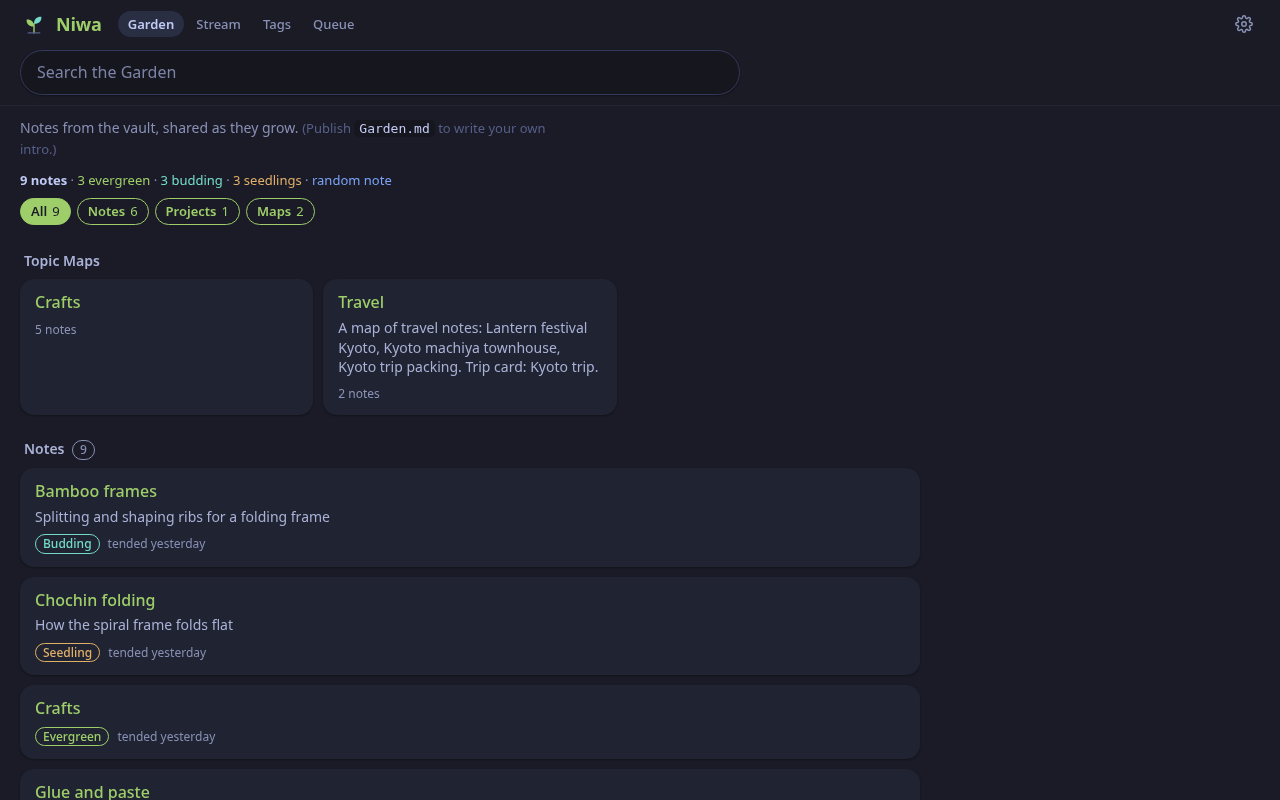
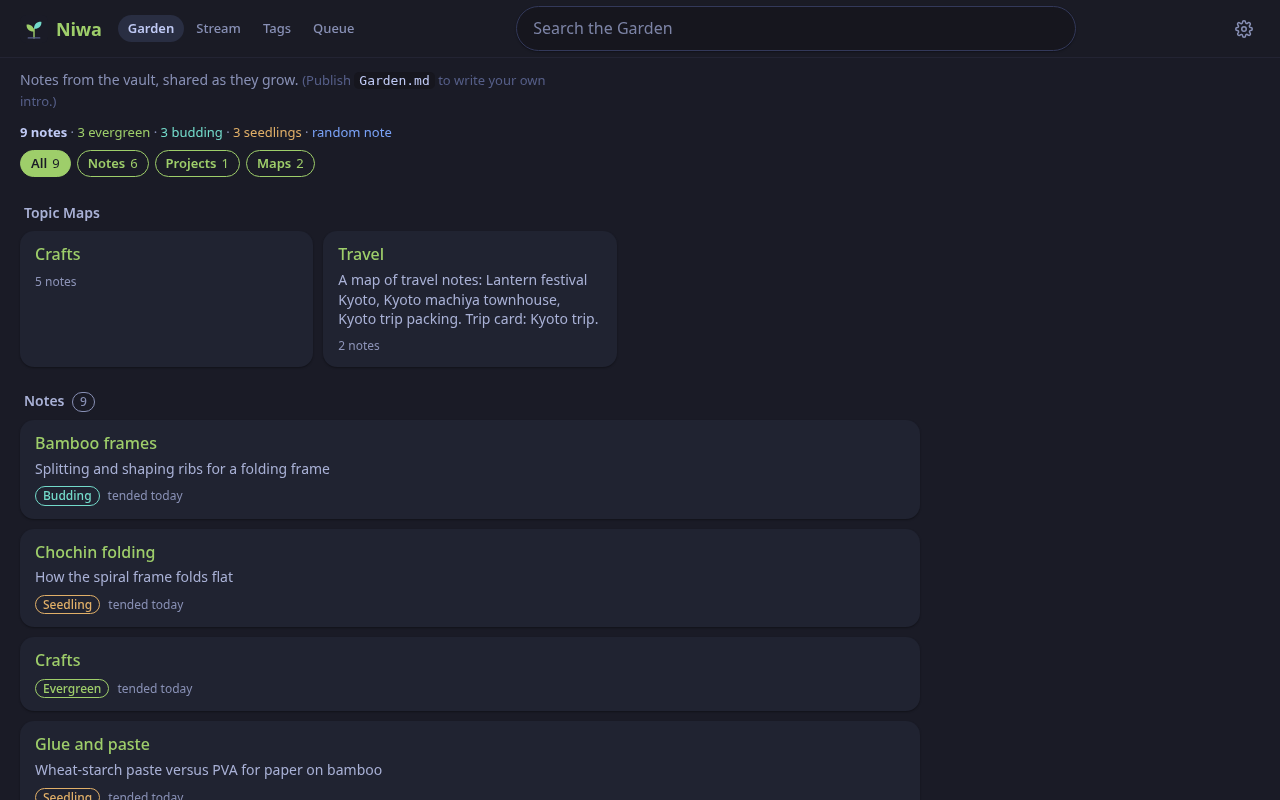
niwa 0.15.0: vaultkit 0.30.1: the search pill sits in the top bar from 1100px; a long note title is cut with an ellipsis

diff --git a/app/vaultkit/ui/machiya.css b/app/vaultkit/ui/machiya.css
@@ -523,6 +523,24 @@ header.top {
 /* The top bar never shows a search field (v0.16.4); since v0.17 the pill is the header's second row (.searchrow). */
 .topbar form.search { display: none; }
 
+/* One row from 1100px (v0.30, owner 2026-10-10): the search pill sits between the tabs and the tools, centred, as Shiori's field.
+   The top bar's children become the header's own flex items (display: contents), so the .searchrow, a sibling of the top bar,
+   can take its place in the same row without any change of markup; narrower, and on phones, it stays the second row. An
+   app's own row (`below=`) keeps the full width under it. */
+@media (min-width: 1100px) {
+  header.top { display: flex; flex-wrap: wrap; align-items: center; column-gap: var(--sp-4); }
+  header.top > .topbar { display: contents; }
+  header.top > .brand, header.top .topbar > .brand { min-height: 48px; }
+  .topbar > .nav { flex: none; }
+  /* a long subtitle (a note's title) is cut with an ellipsis instead of wrapping the row: sized so seven tabs, the field at its
+     160px minimum and the tools still fit at 1100px */
+  .topbar > .subtitle { flex: 0 1 auto; max-width: clamp(96px, 14vw, 320px); }
+  .topbar > .tools { order: 2; margin-left: auto; }          /* without a search pill the tools stay at the right */
+  header.top:has(> .searchrow) .topbar > .tools { margin-left: 0; }   /* with one, the pill's own auto margins centre it */
+  header.top > .searchrow { order: 1; flex: 1 1 160px; min-width: 160px; max-width: 560px; margin: 0 auto; padding: 6px 0; }
+  header.top > .below { order: 3; flex: 1 0 100%; }
+}
+
 /* ---- tab bar (phones and the installed app) ---------------------------------------------------------------- */
 /* A floating pill like Shiori's (v0.16; more see-through glass in v0.16.1: 70% with a stronger blur): it spans the screen minus a margin, so five tabs never run off the edge; the
    bar and the current tab follow the variant: dark = the bar on --dark, the current tab on --hl; light = the reverse. */

diff --git a/app/vaultkit/ui/machiya.js b/app/vaultkit/ui/machiya.js
@@ -835,3 +835,14 @@ document.addEventListener("click", (event) => {
   img.referrerPolicy = "no-referrer";
   box.replaceWith(img);
 });
+
+/* The pinned header's height as --hdr-h on <html> (v0.30): an app's sticky row under it (Konbini's lane headings) uses it
+   instead of measuring the header itself. Follows the one-row layout, the phone layout and the app's own row. */
+(function () {
+  const h = document.querySelector("header.top");
+  if (!h) return;
+  const set = () => document.documentElement.style.setProperty("--hdr-h", Math.ceil(h.getBoundingClientRect().height) + "px");
+  set();
+  if (window.ResizeObserver) new ResizeObserver(set).observe(h);
+  else window.addEventListener("resize", set);
+})();

diff --git a/app/vaultkit/shell.py b/app/vaultkit/shell.py
@@ -332,9 +332,11 @@ def switcher(room, links, cls="rooms", settings=False, who=""):
             % (cls, GLYPH["rooms"], "".join(rows), "<hr>" if nb else "", "".join(nb), ("<hr>" + home) if home else "", gear))
 
 
-def header(room, nav, current, links, subtitle="", tools="", settings=True, who="", search=""):
+def header(room, nav, current, links, subtitle="", tools="", settings=True, who="", search="", below="", cls=""):
     """nav = [(href, key, label)]; tools = extra HTML before the switcher; who = the signed-in name (v0.13): a person
-    button before the gear, to the Account settings; search = search_bar(...) (v0.17): the pill under the top bar."""
+    button before the gear, to the Account settings; search = search_bar(...) (v0.17): the pill under the top bar, and in it
+    from 1100px (v0.30); below = the app's own HTML for a row inside the header under the search (a stats or alert row);
+    cls = extra classes on the header element (a page's state)."""
     _, name, seal, _ = room_info(room)
     items = "".join(('<b class="here">%s</b>' % e(label)) if key == current else '<a href="%s">%s</a>' % (e(href), e(label))
                     for href, key, label in nav)
@@ -342,10 +344,11 @@ def header(room, nav, current, links, subtitle="", tools="", settings=True, who=
     if who and settings:
         gear = ('<a class="iconbtn who" href="/settings#account" title="Signed in as %s" aria-label="Signed in as %s">%s</a>'
                 % (e(who), e(who), GLYPH["person"])) + gear
-    return ('<header class="top"><div class="topbar"><a class="brand" href="/">%s'
-            '<span class="word">%s</span></a>%s<nav class="nav">%s</nav><div class="tools">%s%s%s</div></div>%s</header>\n'
-            % (mark(room), e(name), ('<span class="subtitle">%s</span>' % e(subtitle)) if subtitle else "", items, tools,
-               switcher(room, links), gear, ('<div class="searchrow">%s</div>' % search) if search else ""))
+    return ('<header class="top%s"><div class="topbar"><a class="brand" href="/">%s'
+            '<span class="word">%s</span></a>%s<nav class="nav">%s</nav><div class="tools">%s%s%s</div></div>%s%s</header>\n'
+            % ((" " + e(cls)) if cls else "", mark(room), e(name), ('<span class="subtitle">%s</span>' % e(subtitle)) if subtitle else "",
+               items, tools, switcher(room, links), gear, ('<div class="searchrow">%s</div>' % search) if search else "",
+               ('<div class="below">%s</div>' % below) if below else ""))
 
 
 def tabbar(tabs, current, room, links, icons=None, who=""):

diff --git a/tests/test_niwa.py b/tests/test_niwa.py
@@ -3008,6 +3008,29 @@ class PublicGardenTest(unittest.TestCase):
         _, _, rss = self.get("/feed.xml")
         self.assertIn("<link>https://garden.example/n/", rss)                    # NIWA_GARDEN_URL, never Host
 
+    def test_the_header_keeps_the_markup_machiya_css_lays_out_as_one_row(self):
+        """From 1100px machiya.css makes .topbar's children the header's own items (display: contents) and seats the
+        .searchrow between the tabs and the tools, and caps .topbar > .subtitle: the owner's header and the public one
+        (empty tools) both need that shape, and the subtitle a note's title."""
+        for path in ("/", "/n/Notes/Public%20lantern", "/search?q=lantern"):
+            for who, body in (("owner", req(path)[1]), ("public", self.get(path)[2])):
+                head = body[body.index('<header class="top">'):body.index("</header>")]
+                self.assertTrue(head.startswith('<header class="top"><div class="topbar"><a class="brand" href="/">'), (who, path))
+                self.assertIn('</nav><div class="tools">', head)
+                self.assertEqual(head.count('<div class="searchrow"><form class="search searchbar"'), 1, (who, path))
+                self.assertIn('</div></div><div class="searchrow">', head)      # tools close, the top bar closes, then the pill
+                if "subtitle" in head:
+                    self.assertLess(head.index('class="subtitle"'), head.index('<nav class="nav">'), (who, path))
+        head = self.get("/")[2]
+        head = head[head.index('<header class="top">'):head.index("</header>")]
+        self.assertIn('<div class="tools"></div>', head)                        # nothing of the owner's tools
+        for gone in ("rooms", "iconbtn", "/settings", "/queue"):
+            self.assertNotIn(gone, head)
+        owner = req("/")[1]
+        self.assertIn('class="iconbtn gear"', owner[owner.index('<header class="top">'):owner.index("</header>")])
+        note = self.get("/n/Notes/Public%20lantern")[2]
+        self.assertIn('<span class="subtitle">Public lantern</span>', note[note.index('<header class="top">'):])
+
     def test_a_live_link_keeps_its_original_with_an_archive_link_beside_it(self):
         want = ('<a href="https://live.example/y">the live page</a> <a class="arch" title="Archived copy from 2026-09-02" '
                 'href="https://web.archive.org/web/2026/https://live.example/y">archive.org</a>')

diff --git a/app/vaultkit/__init__.py b/app/vaultkit/__init__.py
@@ -13,4 +13,4 @@ from .vault import CALLOUT_RE, EMBED_RE, HIDDEN, IMAGE_EXT, MDIMG_RE, Vault     
 from .frontmatter import EditError, edit_front, merge_note, version_of, yaml_scalar   # noqa: F401
 from .gitsync import GitSync                                                          # noqa: F401
 
-__version__ = "0.29.0"
+__version__ = "0.30.1"

diff --git a/app/niwa.py b/app/niwa.py
@@ -52,7 +52,7 @@ from vaultkit import read_secret  # noqa: E402
 from vaultkit import signin  # noqa: E402
 from writer import Writer, WriteError  # noqa: E402
 
-VERSION = "0.14.2"
+VERSION = "0.15.0"
 PORT = int(os.environ.get("NIWA_PORT", "8080"))
 USERS = set(filter(None, (u.strip() for u in os.environ.get("NIWA_USERS", "").split(","))))
 

diff --git a/app/CHANGELOG.md b/app/CHANGELOG.md
@@ -3,6 +3,14 @@
 Niwa follows [SemVer](https://semver.org). Before 1.0, a new feature, a changed default or setting, or a changed API
 field is a minor bump, and a fix or wording change is a patch. Settings are listed in the README.
 
+## 0.15.0
+
+vaultkit 0.30.1 (the one-row header, owner decision 2026-10-10).
+
+- **The search pill moves into the top bar from 1100px**, centered between the tabs and the icons, on the owner's garden and on the public one. Narrower, and on phones, it stays the second row under the top bar. The markup is unchanged.
+- A long note title in the header is cut with an ellipsis, so the top bar stays one row. The icons stay at the right.
+- The shared script sets `--hdr-h` (the header's height) on the page.
+
 ## 0.14.2
 
 Base images re-pinned to the current digests (security fixes in the base layers).
